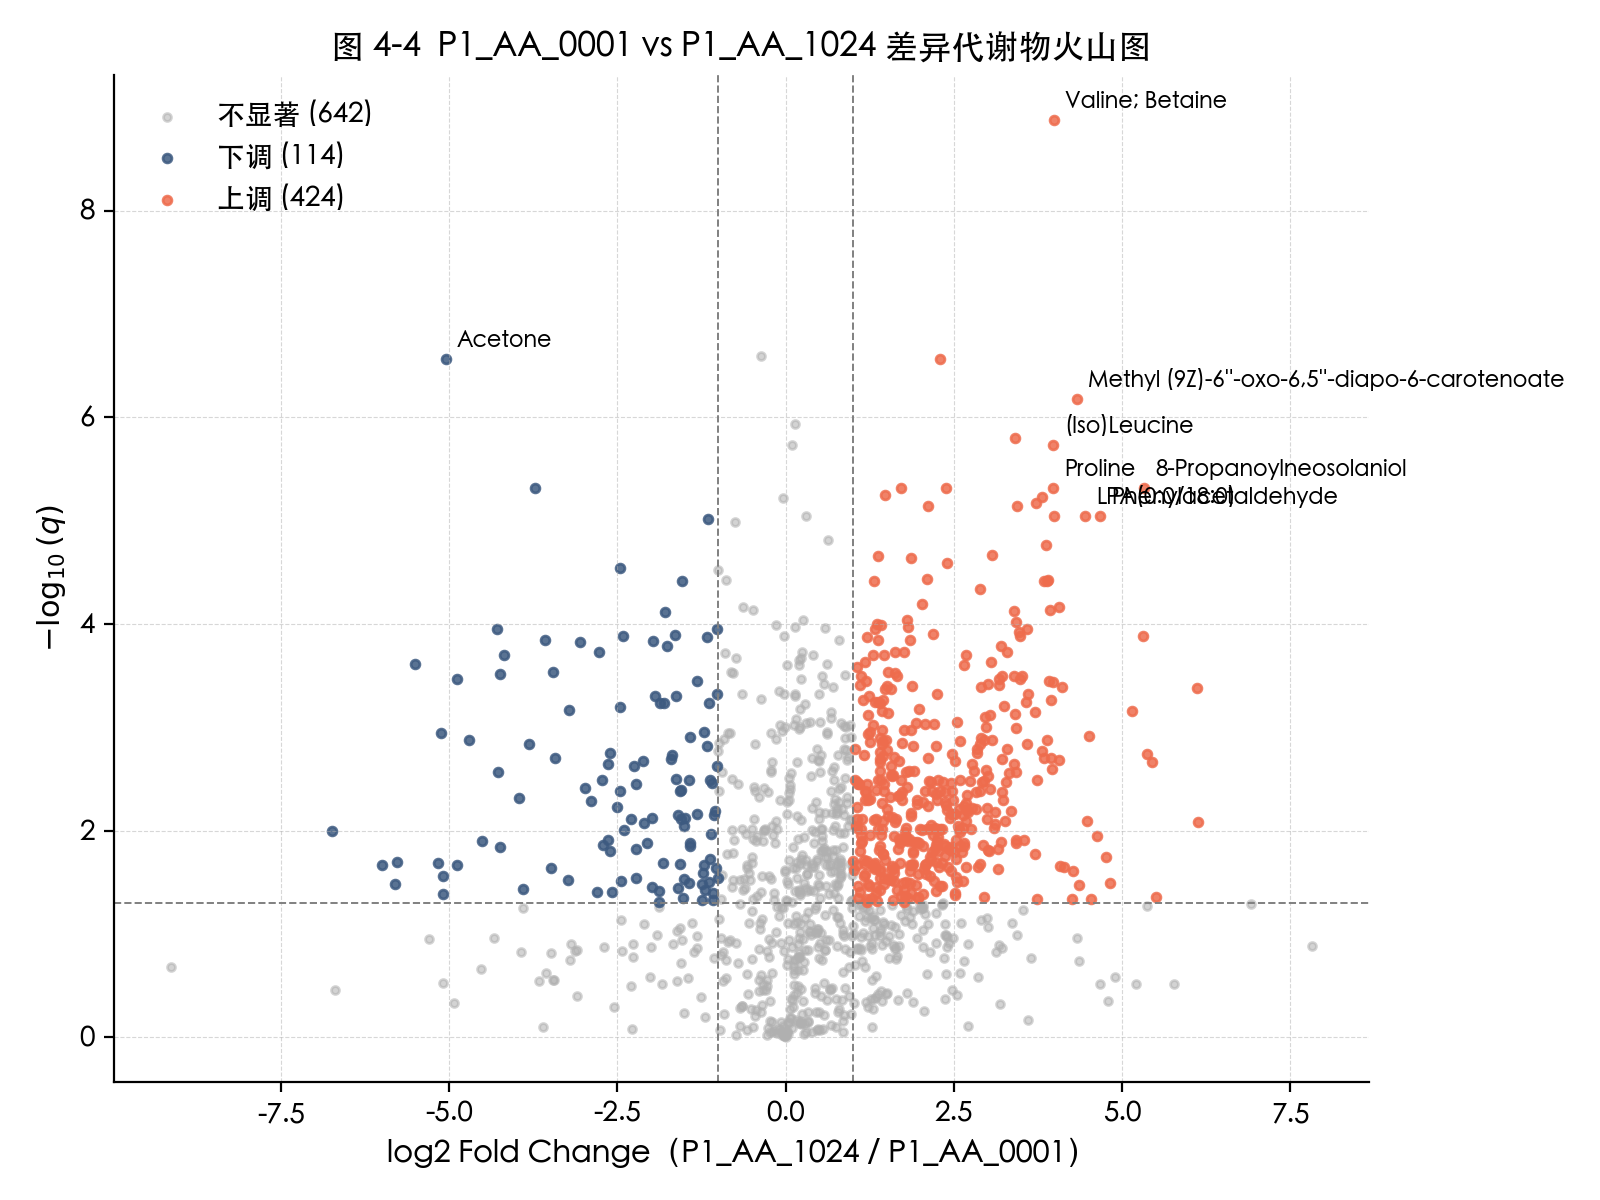
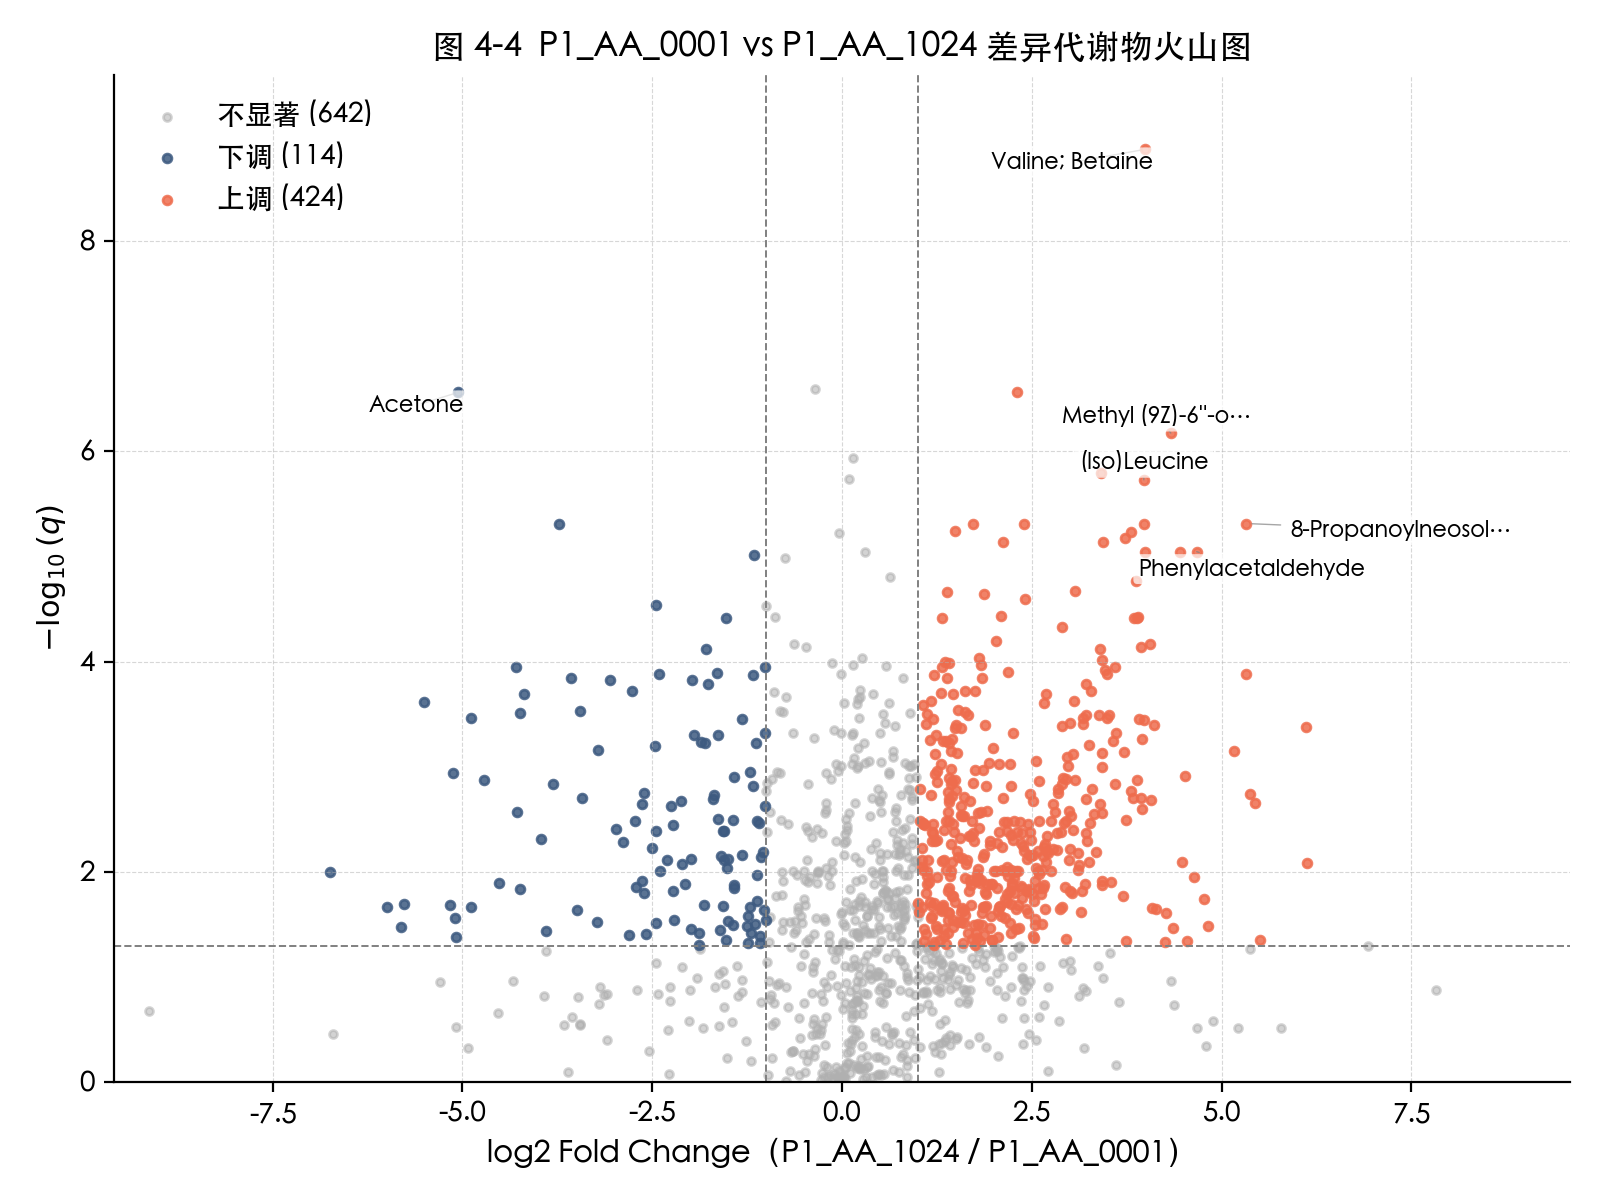
24

diff --git a/thesis/scripts/generate_figures.py b/thesis/scripts/generate_figures.py
@@ -155,17 +155,44 @@ def fig_4_4_volcano() -> None:
     ax.axvline(-fc_thr, color="grey", linestyle="--", linewidth=0.7)
     ax.axhline(-np.log10(p_thr), color="grey", linestyle="--", linewidth=0.7)
 
-    # top-N 标注
+    # 先确定坐标范围（避免标注超出右边界）
+    x_max = float(np.nanmax(np.abs(log2fc))) * 1.05
+    ax.set_xlim(-x_max, x_max)
+    ax.set_ylim(0, float(neg_log_q.max()) * 1.08)
+
+    # top-N 标注：用 adjustText 库做迭代避让
     sig_idx = np.where(up_mask | down_mask)[0]
     if len(sig_idx):
-        # 按 |log2fc| × neg_log_q 取最显著的 8 个
         score = np.abs(log2fc[sig_idx]) * neg_log_q[sig_idx]
-        top_local = sig_idx[np.argsort(score)[-8:]]
+        top_local = sig_idx[np.argsort(score)[-6:]]  # 限制 6 个，避免过密
+
+        def _short(name: str, n: int = 18) -> str:
+            return name if len(name) <= n else name[: n - 1] + "…"
+
+        try:
+            from adjustText import adjust_text
+        except ImportError:
+            adjust_text = None  # type: ignore
+
+        texts = []
         for i in top_local:
             name = feats[i].get("metabolite_name") or feats[i].get("feature")
-            if name:
-                ax.annotate(str(name), (log2fc[i], neg_log_q[i]),
-                            xytext=(4, 4), textcoords="offset points", fontsize=8)
+            if not name:
+                continue
+            t = ax.text(log2fc[i], neg_log_q[i], _short(str(name)),
+                        fontsize=8, ha="center", va="center",
+                        bbox=dict(boxstyle="round,pad=0.2", fc="white",
+                                  ec="none", alpha=0.7))
+            texts.append(t)
+
+        if adjust_text is not None and texts:
+            adjust_text(
+                texts, ax=ax,
+                expand=(1.2, 1.4),
+                arrowprops=dict(arrowstyle="-", color="grey",
+                                lw=0.5, alpha=0.7),
+                only_move={"texts": "xy", "static": "xy", "explode": "xy"},
+            )
 
     ax.set_xlabel("log2 Fold Change（P1_AA_1024 / P1_AA_0001）", fontsize=11)
     ax.set_ylabel(r"$-\log_{10}(q)$", fontsize=11)
@@ -203,10 +230,12 @@ def fig_4_5_kegg_bubble() -> None:
     qvals = np.where(qvals <= 0, 1e-300, qvals)
     neg_log_q = -np.log10(qvals)
 
-    sizes = [max(40, h * 25) for h in hits]
+    # 缩小气泡 size，避免遮挡坐标
+    sizes = [max(60, h * 8) for h in hits]
     y_pos = np.arange(len(names))[::-1]
 
-    fig, ax = plt.subplots(figsize=(8.5, max(3.5, 0.5 * len(names) + 1.5)))
+    n = len(names)
+    fig, ax = plt.subplots(figsize=(9, max(3.2, 0.7 * n + 2.0)))
     sc = ax.scatter(rich, y_pos, s=sizes, c=neg_log_q, cmap="viridis",
                     edgecolor="black", linewidth=0.5, alpha=0.9)
 
@@ -215,16 +244,26 @@ def fig_4_5_kegg_bubble() -> None:
     ax.set_xlabel("Rich Factor", fontsize=11)
     ax.set_title("图 4-5  KEGG 通路富集气泡图（P1_AA_0001 vs P1_AA_1024）", fontsize=12)
     ax.grid(axis="x", linestyle="--", linewidth=0.4, alpha=0.5)
-    ax.set_xlim(0, max(1.0, max(rich) * 1.1))
+
+    # 给 x 轴两端留出充足 margin，确保气泡不溢出
+    rich_min, rich_max = float(min(rich)), float(max(rich))
+    span = max(0.3, rich_max - rich_min)
+    ax.set_xlim(max(0.0, rich_min - span * 0.4), min(1.05, rich_max + span * 0.25))
+
+    # 给 y 轴顶部和底部留出空隙，避免气泡贴边
+    ax.set_ylim(-0.8, n - 1 + 0.8)
 
     cb = fig.colorbar(sc, ax=ax, fraction=0.04, pad=0.02)
     cb.set_label(r"$-\log_{10}(q)$", fontsize=10)
 
-    # 命中数图例
-    for h_demo in [10, 30]:
-        ax.scatter([], [], s=max(40, h_demo * 25), c="lightgrey",
+    # 命中数图例（用实际数据范围内的代表值）
+    h_min, h_max = int(min(hits)), int(max(hits))
+    legend_hits = sorted(set([h_min, (h_min + h_max) // 2, h_max]))
+    for h_demo in legend_hits:
+        ax.scatter([], [], s=max(60, h_demo * 8), c="lightgrey",
                    edgecolor="black", label=f"hits = {h_demo}")
-    ax.legend(loc="lower right", frameon=False, fontsize=9, scatterpoints=1)
+    ax.legend(loc="upper left", frameon=True, fontsize=9, scatterpoints=1,
+              labelspacing=1.2, framealpha=0.85)
 
     out = OUT / "fig_4_5_kegg_enrichment_bubble.png"
     fig.tight_layout()
@@ -237,50 +276,58 @@ def fig_4_5_kegg_bubble() -> None:
 # 图 4-7：BioHeart / MI / AMIDE 三数据集 PCA 校正前后拼图
 # -----------------------------------------------------------------------------
 def fig_4_7_three_datasets_pca() -> None:
-    """直接将三张已存在的 PCA 图横向拼接（保留原图风格）。"""
-    from PIL import Image
+    """裁掉原图顶部含中文乱码的标题条，再用 matplotlib 拼接并加自有标题。"""
+    import matplotlib.image as mpimg
 
     src_paths = [
         ("BioHeart", DATA / "bioheart" / "_pipeline" / "pca_before_vs_after_batch_correction.png"),
         ("MI", DATA / "mi" / "_pipeline" / "pca_before_vs_after_batch_correction.png"),
         ("AMIDE", DATA / "amide" / "_pipeline" / "pca_before_vs_after_batch_correction.png"),
     ]
-    images = []
+    items = []
+    # 经测量原图为 1320×1680，顶部约前 145px 含 "PCA before vs after..." 与 "(XX 数据集)" 两行标题
+    crop_top_ratio = 0.115
     for label, path in src_paths:
         if not path.exists():
             print(f"[warn] missing source: {path}")
             continue
-        images.append((label, Image.open(path).convert("RGB")))
-    if not images:
+        img = mpimg.imread(path)
+        h = img.shape[0]
+        cropped = img[int(h * crop_top_ratio):, :]
+        items.append((label, cropped))
+    if not items:
         return
 
-    # 统一高度后纵向拼接
-    target_w = max(img.width for _, img in images)
-    resized = []
-    title_h = 36
-    for label, img in images:
-        ratio = target_w / img.width
-        new_h = int(img.height * ratio)
-        resized.append((label, img.resize((target_w, new_h), Image.LANCZOS)))
+    target_w = 12  # inches
+    panel_heights = []
+    for _, img in items:
+        h, w = img.shape[:2]
+        panel_heights.append(target_w * h / w)
+    total_h = sum(panel_heights) + 0.4 * len(items)
 
-    total_h = sum(img.height for _, img in resized) + title_h * len(resized)
-    canvas = Image.new("RGB", (target_w, total_h), "white")
+    fig, axes = plt.subplots(
+        nrows=len(items), ncols=1,
+        figsize=(target_w, total_h),
+        gridspec_kw={"height_ratios": panel_heights, "hspace": 0.20},
+    )
+    if len(items) == 1:
+        axes = [axes]
 
-    from PIL import ImageDraw, ImageFont
-    try:
-        font = ImageFont.truetype("/System/Library/Fonts/PingFang.ttc", 22)
-    except IOError:
-        font = ImageFont.load_default()
+    for ax, (label, img) in zip(axes, items):
+        ax.imshow(img)
+        ax.set_title(f"{label} 数据集：校正前 vs 校正后（左：按批次着色；右：按分组着色）",
+                     fontsize=13, pad=8)
+        ax.set_xticks([])
+        ax.set_yticks([])
+        for spine in ax.spines.values():
+            spine.set_visible(False)
 
-    y = 0
-    for label, img in resized:
-        draw = ImageDraw.Draw(canvas)
-        draw.text((20, y + 5), f"{label} —— 校正前 vs 校正后", fill="black", font=font)
-        canvas.paste(img, (0, y + title_h))
-        y += title_h + img.height
+    fig.suptitle("图 4-7  BioHeart / MI / AMIDE 三数据集批次校正前后 PCA 对比",
+                 fontsize=15, y=0.997)
 
     out = OUT / "fig_4_7_three_datasets_pca.png"
-    canvas.save(out, dpi=(200, 200))
+    fig.savefig(out, dpi=180, bbox_inches="tight")
+    plt.close(fig)
     print(f"[saved] {out}")
 
 
